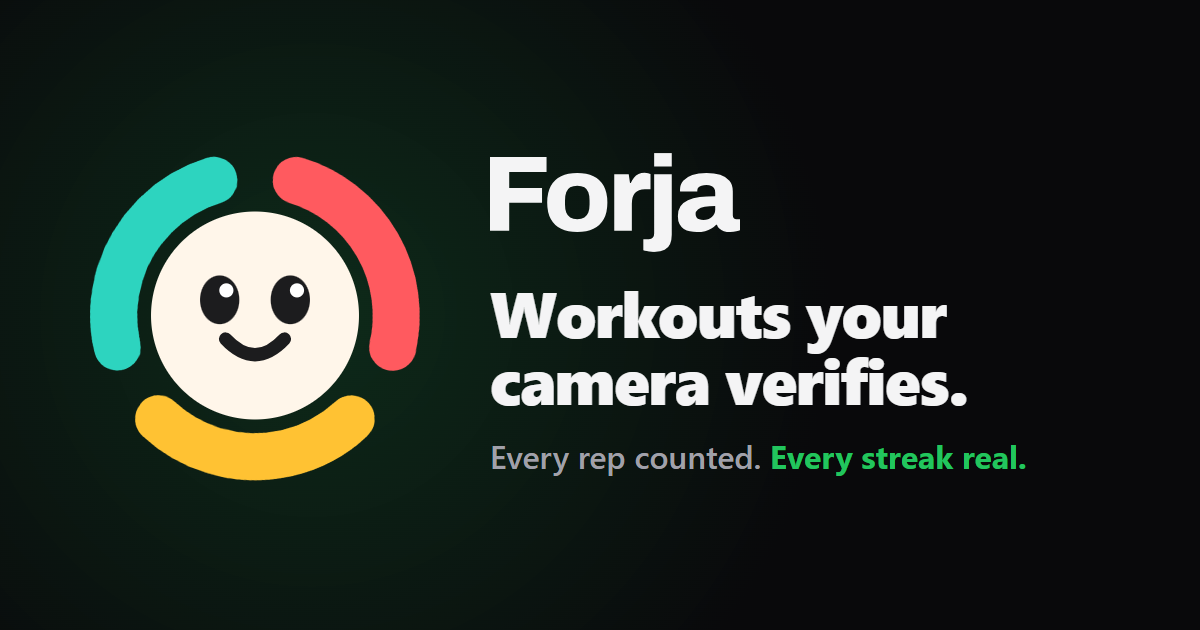
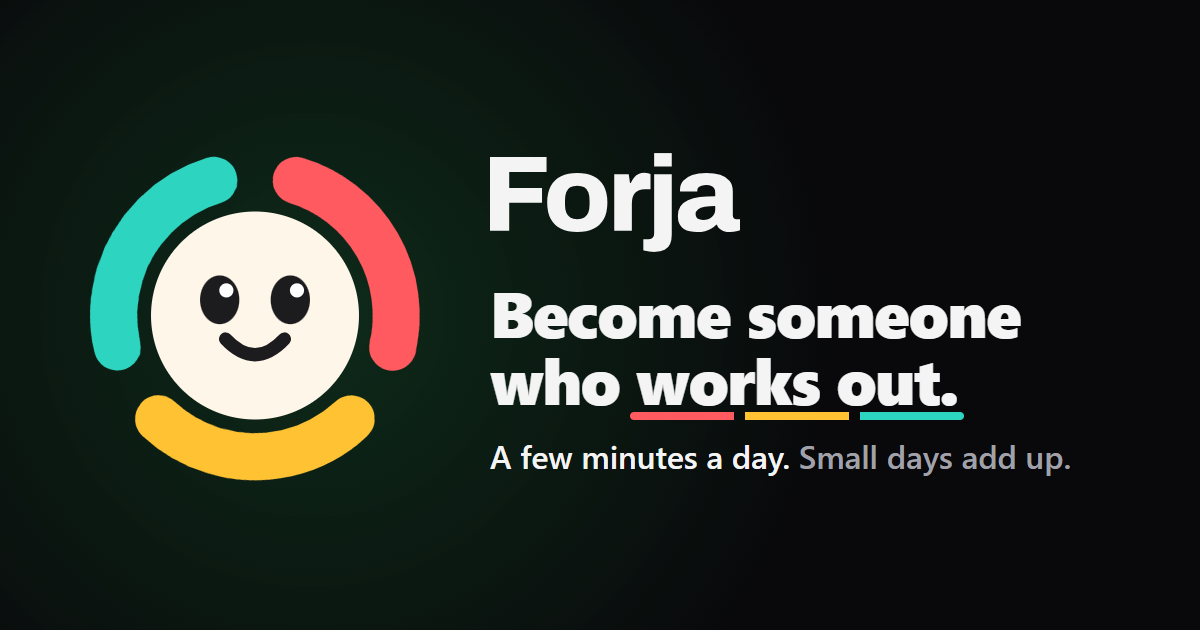
Front page: lead with the outcome, new share image, bolder beta buttons
- Hero "Become someone who works out." plus a "Sound familiar?" pain
  section, "Small days add up." and the camera section moved below
  (English and Spanish)
- Share image (og-image.png) matches the new hero; ?v=2 so apps that
  cached the old preview fetch it again
- "Open the beta" is a solid green pill; "Or start training in the beta
  now" is a full-width button under the waitlist

Changed region(s): [[0.4008, 0.4524, 0.8942, 0.754]]

diff --git a/landing.html b/landing.html
@@ -3,7 +3,7 @@
 <head>
   <meta charset="UTF-8">
   <meta name="viewport" content="width=device-width, initial-scale=1, viewport-fit=cover">
-  <title>Forja: the workout app you can't cheat</title>
+  <title>Forja: become someone who works out</title>
   <!-- getforja.app's front page. The app itself is index.html. People who
        already use the app never stay here: an installed Home Screen app, a
        signed-in or guest phone, an invite link (?i=) or a login/reset link
@@ -20,16 +20,16 @@
       if (toApp) l.replace("index.html" + l.search + l.hash);
     })();
   </script>
-  <meta name="description" content="Your camera counts every push-up, squat and plank. No typing in numbers. Join the waitlist: Founding Members get Forja Pro free for a year.">
+  <meta name="description" content="Stop starting over. A few minutes a day at home, your phone counts every rep, and your streak shows how far you've come. Join the waitlist: Founding Members get Forja Pro free for a year.">
   <meta property="og:type" content="website">
   <meta property="og:site_name" content="Forja">
   <meta property="og:url" content="https://getforja.app/">
-  <meta property="og:title" content="Forja: the workout app you can't cheat">
-  <meta property="og:description" content="Your camera counts every rep. Join the waitlist and become a Founding Member.">
-  <meta property="og:image" content="https://getforja.app/og-image.png">
+  <meta property="og:title" content="Forja: become someone who works out">
+  <meta property="og:description" content="Stop starting over. A few minutes a day at home, and your phone counts every rep.">
+  <meta property="og:image" content="https://getforja.app/og-image.png?v=2">
   <meta property="og:image:width" content="1200">
   <meta property="og:image:height" content="630">
-  <meta property="og:image:alt" content="The Forja pet inside its ring: workouts your camera verifies">
+  <meta property="og:image:alt" content="The Forja pet inside its ring: become someone who works out">
   <meta name="twitter:card" content="summary_large_image">
   <link rel="manifest" href="manifest.json">
   <meta name="theme-color" content="#0b0c0e">
@@ -90,9 +90,10 @@
   .lockup svg.word { height: 22px; width: auto; }
   .nav-link {
     display: inline-flex; align-items: center; min-height: 44px; padding: 0 16px;
-    border: 1px solid var(--line-strong); border-radius: 999px;
-    font-size: 15px; font-weight: 600; text-decoration: none; color: var(--text);
+    border-radius: 999px; background: var(--accent);
+    font-size: 15px; font-weight: 700; text-decoration: none; color: #04130a;
   }
+  .nav-link:active { background: var(--accent-press); }
 
   /* ---------- hero ---------- */
   .hero { display: grid; gap: 40px; padding-block: 28px 56px; align-items: center; }
@@ -106,8 +107,8 @@
     margin: 0; font-family: var(--font-display); font-weight: 900;
     font-size: clamp(44px, 10.5vw, 84px); line-height: 0.95; letter-spacing: -0.035em; text-wrap: balance;
   }
-  h1 .cant { position: relative; white-space: nowrap; }
-  h1 .cant::after {
+  h1 .hl { position: relative; white-space: nowrap; }
+  h1 .hl::after {
     content: ""; position: absolute; left: -2%; right: -2%; bottom: 0.06em; height: 0.12em; border-radius: 99px;
     background: linear-gradient(90deg, var(--red) 0 31%, transparent 31% 34.5%, var(--yellow) 34.5% 65.5%, transparent 65.5% 69%, var(--teal) 69%);
   }
@@ -132,10 +133,12 @@
   .founder-line { margin: 4px 0 0; font-size: 15px; color: var(--text-2); }
   .founder-line b { color: var(--text); }
   .beta-link {
-    display: inline-flex; align-items: center; gap: 6px; min-height: 44px; margin-top: 4px;
-    font-size: 15px; font-weight: 600; color: var(--accent); text-decoration: none;
+    display: flex; align-items: center; justify-content: center; gap: 8px; min-height: 52px; margin-top: 14px;
+    border: 1.5px solid var(--accent); border-radius: 14px; background: var(--accent-tint);
+    font-size: 17px; font-weight: 700; color: var(--accent); text-decoration: none;
   }
-  .beta-link svg { width: 16px; height: 16px; }
+  .beta-link:active { background: #22c55e33; }
+  .beta-link svg { width: 18px; height: 18px; }
 
   /* after joining */
   .joined { display: grid; gap: 14px; padding: 20px; border-radius: 20px; background: var(--panel); border: 1px solid var(--line); }
@@ -300,8 +303,8 @@
   <header class="hero" id="top">
     <div>
       <p class="eyebrow"><i></i>Beta open now · App Store next</p>
-      <h1>The workout app you <span class="cant">can't cheat.</span></h1>
-      <p class="lede">Your camera counts every push-up, squat and plank. You can't type in a number. When a friend sees <b>40 push-ups</b>, you did 40.</p>
+      <h1>Become someone who <span class="hl">works out.</span></h1>
+      <p class="lede">No gym, and no 45-minute plan you'll drop by Thursday. Just <b>a few minutes a day</b> at home. Your phone counts every rep, your streak grows, and a month from now you've kept 30 promises to yourself.</p>
 
       <div class="join" id="join">
         <form id="join-form" novalidate>
@@ -339,25 +342,25 @@
     </div>
   </header>
 
-  <!-- ---------- no honor system ---------- -->
-  <section aria-labelledby="proof-title">
-    <p class="kicker">No honor system</p>
-    <h2 class="big" id="proof-title">Every rep is counted. Twice.</h2>
+  <!-- ---------- sound familiar ---------- -->
+  <section aria-labelledby="pain-title">
+    <p class="kicker">Sound familiar?</p>
+    <h2 class="big" id="pain-title">You're not lazy. Your plan is too big.</h2>
     <div class="proof">
       <article>
-        <div class="icon" style="background:#ff5a5f22;color:var(--red)"><svg viewBox="0 0 24 24" fill="none" stroke="currentColor" stroke-width="2" stroke-linecap="round" stroke-linejoin="round" aria-hidden="true"><path d="M3 8.5A2.5 2.5 0 0 1 5.5 6h2l1.5-2h6l1.5 2h2A2.5 2.5 0 0 1 21 8.5v9a2.5 2.5 0 0 1-2.5 2.5h-13A2.5 2.5 0 0 1 3 17.5z"/><circle cx="12" cy="13" r="3.5"/></svg></div>
-        <h3>Counted on camera</h3>
-        <p>Set your phone on the floor and train. Forja watches your form and only counts full reps.</p>
+        <div class="icon" style="background:#ff5a5f22;color:var(--red)"><svg viewBox="0 0 24 24" fill="none" stroke="currentColor" stroke-width="2" stroke-linecap="round" stroke-linejoin="round" aria-hidden="true"><path d="M20 11a8 8 0 0 0-14.3-4.9L4 8"/><path d="M4 3.5V8h4.5"/><path d="M4 13a8 8 0 0 0 14.3 4.9L20 16"/><path d="M20 20.5V16h-4.5"/></svg></div>
+        <h3>Starting over every Monday</h3>
+        <p>A new plan, four good days, then life gets busy. Every restart makes the next one harder to believe.</p>
       </article>
       <article>
-        <div class="icon" style="background:#ffc23322;color:var(--yellow)"><svg viewBox="0 0 24 24" fill="none" stroke="currentColor" stroke-width="2" stroke-linecap="round" stroke-linejoin="round" aria-hidden="true"><path d="M12 3l7 3v5.5c0 4.4-3 8.2-7 9.5-4-1.3-7-5.1-7-9.5V6z"/><path d="M8.5 12l2.5 2.5 4.5-5"/></svg></div>
-        <h3>Checked again on our server</h3>
-        <p>Your phone counts, then our server replays the movement and counts again before anything is saved.</p>
+        <div class="icon" style="background:#ffc23322;color:var(--yellow)"><svg viewBox="0 0 24 24" fill="none" stroke="currentColor" stroke-width="2" stroke-linecap="round" stroke-linejoin="round" aria-hidden="true"><rect x="3" y="5.5" width="18" height="13" rx="2.5"/><path d="M3 10h18"/><path d="M7 15h4"/></svg></div>
+        <h3>The gym you pay for</h3>
+        <p>The membership charges you every month, and the guilt shows up with it.</p>
       </article>
       <article>
-        <div class="icon" style="background:#2dd4bf22;color:var(--teal)"><svg viewBox="0 0 24 24" fill="none" stroke="currentColor" stroke-width="2" stroke-linecap="round" stroke-linejoin="round" aria-hidden="true"><rect x="5" y="10.5" width="14" height="10" rx="2.5"/><path d="M8 10.5V8a4 4 0 0 1 8 0v2.5"/></svg></div>
-        <h3>Your video stays on your phone</h3>
-        <p>Nothing is recorded or uploaded. Only a few body points are checked, never an image.</p>
+        <div class="icon" style="background:#2dd4bf22;color:var(--teal)"><svg viewBox="0 0 24 24" fill="none" stroke="currentColor" stroke-width="2" stroke-linecap="round" stroke-linejoin="round" aria-hidden="true"><path d="M3 3l18 18"/><path d="M10.6 6.1A9.7 9.7 0 0 1 12 6c5 0 8.5 4.2 9.5 6-.4.8-1.3 2-2.5 3.2"/><path d="M6.6 7.6C4.6 8.9 3.1 10.8 2.5 12c1 1.8 4.5 6 9.5 6 1.4 0 2.7-.3 3.9-.9"/><path d="M9.9 10a3 3 0 0 0 4.1 4.1"/></svg></div>
+        <h3>Nobody notices</h3>
+        <p>Train or skip, the day looks the same. So skipping keeps winning.</p>
       </article>
     </div>
   </section>
@@ -366,12 +369,12 @@
   <section aria-labelledby="ring-title">
     <div class="split">
       <div>
-        <p class="kicker">One ring a day</p>
-        <h2 class="big" id="ring-title">Close your ring. Keep the streak.</h2>
+        <p class="kicker">A few minutes a day</p>
+        <h2 class="big" id="ring-title">Small days add up.</h2>
         <ul class="points">
-          <li><span class="dot" style="background:var(--red)"></span><span><b>Three moves a day.</b> Push-ups, a plank and squats, sized to you.</span></li>
-          <li><span class="dot" style="background:var(--yellow)"></span><span><b>Your plan grows with you.</b> Targets step up as you get stronger.</span></li>
-          <li><span class="dot" style="background:var(--teal)"></span><span><b>Two rest days a week.</b> One bad day doesn't end your streak.</span></li>
+          <li><span class="dot" style="background:var(--red)"></span><span><b>Start small.</b> Push-ups, a plank and squats, sized to where you are today.</span></li>
+          <li><span class="dot" style="background:var(--yellow)"></span><span><b>Watch yourself get stronger.</b> Your targets step up as you do, so the numbers keep climbing.</span></li>
+          <li><span class="dot" style="background:var(--teal)"></span><span><b>Miss a day? You're fine.</b> Two rest days a week, so one bad day doesn't undo your progress.</span></li>
         </ul>
       </div>
       <div class="ring-card">
@@ -399,13 +402,36 @@
     </div>
   </section>
 
+  <!-- ---------- your phone counts ---------- -->
+  <section aria-labelledby="proof-title">
+    <p class="kicker">Nothing to log</p>
+    <h2 class="big" id="proof-title">Just move. Forja keeps count.</h2>
+    <div class="proof">
+      <article>
+        <div class="icon" style="background:#ff5a5f22;color:var(--red)"><svg viewBox="0 0 24 24" fill="none" stroke="currentColor" stroke-width="2" stroke-linecap="round" stroke-linejoin="round" aria-hidden="true"><path d="M3 8.5A2.5 2.5 0 0 1 5.5 6h2l1.5-2h6l1.5 2h2A2.5 2.5 0 0 1 21 8.5v9a2.5 2.5 0 0 1-2.5 2.5h-13A2.5 2.5 0 0 1 3 17.5z"/><circle cx="12" cy="13" r="3.5"/></svg></div>
+        <h3>Prop up your phone</h3>
+        <p>Set it on the floor and train. Forja counts every full rep for you, so there's nothing to type.</p>
+      </article>
+      <article>
+        <div class="icon" style="background:#ffc23322;color:var(--yellow)"><svg viewBox="0 0 24 24" fill="none" stroke="currentColor" stroke-width="2" stroke-linecap="round" stroke-linejoin="round" aria-hidden="true"><path d="M12 3l7 3v5.5c0 4.4-3 8.2-7 9.5-4-1.3-7-5.1-7-9.5V6z"/><path d="M8.5 12l2.5 2.5 4.5-5"/></svg></div>
+        <h3>Progress you can trust</h3>
+        <p>Every rep is checked again on our server, so each number in your streak is one you really did.</p>
+      </article>
+      <article>
+        <div class="icon" style="background:#2dd4bf22;color:var(--teal)"><svg viewBox="0 0 24 24" fill="none" stroke="currentColor" stroke-width="2" stroke-linecap="round" stroke-linejoin="round" aria-hidden="true"><rect x="5" y="10.5" width="14" height="10" rx="2.5"/><path d="M8 10.5V8a4 4 0 0 1 8 0v2.5"/></svg></div>
+        <h3>Your video stays on your phone</h3>
+        <p>Nothing is recorded or uploaded. Only a few body points are checked, never an image.</p>
+      </article>
+    </div>
+  </section>
+
   <!-- ---------- friends (example people, not real accounts) ---------- -->
   <section aria-labelledby="friends-title">
     <div class="split">
       <div>
         <p class="kicker">Better with friends</p>
-        <h2 class="big" id="friends-title">Real numbers. Real bragging rights.</h2>
-        <p class="sub">See your friends' workouts in the Feed, like them, nudge anyone who hasn't trained yet today, and race everyone in a weekly league.</p>
+        <h2 class="big" id="friends-title">Friends who notice.</h2>
+        <p class="sub">Your friends see your workouts in the Feed and cheer you on. Nudge anyone who hasn't trained yet today, and race everyone in a weekly league.</p>
       </div>
       <div class="social" aria-hidden="true">
         <div class="feed-card">
@@ -455,6 +481,8 @@
     <p class="kicker">Questions</p>
     <h2 class="big" id="faq-title">Good to know</h2>
     <div class="faq">
+      <details><summary>I've quit every workout plan. Why is this different?<svg viewBox="0 0 24 24" fill="none" stroke="currentColor" stroke-width="2.4" stroke-linecap="round" aria-hidden="true"><path d="M12 5v14M5 12h14"/></svg></summary>
+        <p>Most plans ask for an hour. Forja asks for a few minutes and grows with you from there. Your friends see when you show up, and two rest days a week mean one bad day doesn't undo your progress.</p></details>
       <details><summary>Can I use Forja now?<svg viewBox="0 0 24 24" fill="none" stroke="currentColor" stroke-width="2.4" stroke-linecap="round" aria-hidden="true"><path d="M12 5v14M5 12h14"/></svg></summary>
         <p>Yes. The beta runs in your phone's browser today. On iPhone, add it to your Home Screen for reminders. The App Store app comes next, and your streak carries over.</p></details>
       <details><summary>Is it free?<svg viewBox="0 0 24 24" fill="none" stroke="currentColor" stroke-width="2.4" stroke-linecap="round" aria-hidden="true"><path d="M12 5v14M5 12h14"/></svg></summary>
@@ -479,7 +507,7 @@
 <!-- English or Spanish, like the app (i18n.js); this page's Spanish is its
      own small file. -->
 <script src="i18n.js?v=2"></script>
-<script src="i18n-landing-es.js?v=1"></script>
+<script src="i18n-landing-es.js?v=2"></script>
 <script>
   // The example week's letters (a lookup can't tell Tuesday's T from Thursday's).
   if (ForjaI18n.lang === "es") {
@@ -585,7 +613,7 @@
     });
     const share = document.getElementById("share");
     if (share) share.addEventListener("click", () => {
-      navigator.share({ title: "Forja", text: tr("The workout app you can't cheat. Join the waitlist with me:"), url: link }).catch(() => {});
+      navigator.share({ title: "Forja", text: tr("A few minutes a day to become someone who works out. Join the waitlist with me:"), url: link }).catch(() => {});
     });
   }
 

diff --git a/i18n-landing-es.js b/i18n-landing-es.js
@@ -1,19 +1,19 @@
 // The front page's Spanish (landing.html), read by i18n.js like the app's
 // (i18n-es.js). Its own small file, so visitors don't load the whole app's.
 // Keys are the page's English exactly: each piece of text between tags is
-// its own key ("The workout app you" + "can't cheat.").
+// its own key ("Become someone who" + "works out.").
 window.FORJA_ES = Object.assign(window.FORJA_ES || {}, {
-  "Forja: the workout app you can't cheat": "Forja: la app de ejercicio que no puedes engañar",
+  "Forja: become someone who works out": "Forja: conviértete en alguien que hace ejercicio",
   "Forja home": "Inicio de Forja",
   "Main": "Principal",
   "Footer": "Pie de página",
   "Open the beta": "Abrir la beta",
   "Beta open now · App Store next": "Beta abierta · Pronto en la App Store",
-  "The workout app you": "La app de ejercicio que no puedes",
-  "can't cheat.": "engañar.",
-  "Your camera counts every push-up, squat and plank. You can't type in a number. When a friend sees": "Tu cámara cuenta cada flexión, sentadilla y plancha. No puedes escribir un número. Cuando un amigo ve",
-  "40 push-ups": "40 flexiones",
-  ", you did 40.": ", hiciste 40.",
+  "Become someone who": "Conviértete en alguien que",
+  "works out.": "hace ejercicio.",
+  "No gym, and no 45-minute plan you'll drop by Thursday. Just": "Sin gimnasio, y sin un plan de 45 minutos que dejarás el jueves. Solo",
+  "a few minutes a day": "unos minutos al día",
+  "at home. Your phone counts every rep, your streak grows, and a month from now you've kept 30 promises to yourself.": "en casa. Tu teléfono cuenta cada repetición, tu racha crece y en un mes habrás cumplido 30 promesas contigo mismo.",
   "Email address": "Correo electrónico",
   "you@email.com": "tu@correo.com",
   "Join the waitlist": "Unirme a la lista de espera",
@@ -28,30 +28,38 @@ window.FORJA_ES = Object.assign(window.FORJA_ES || {}, {
   "Full rep": "Repetición completa",
   "Going down": "Bajando",
   "Ring slice closed": "Parte del anillo cerrada",
-  "No honor system": "Sin trampas",
-  "Every rep is counted. Twice.": "Cada repetición se cuenta. Dos veces.",
-  "Counted on camera": "Contada por la cámara",
-  "Set your phone on the floor and train. Forja watches your form and only counts full reps.": "Pon tu teléfono en el piso y entrena. Forja revisa tu técnica y solo cuenta repeticiones completas.",
-  "Checked again on our server": "Revisada otra vez en nuestro servidor",
-  "Your phone counts, then our server replays the movement and counts again before anything is saved.": "Tu teléfono cuenta, y luego nuestro servidor repite el movimiento y vuelve a contar antes de guardar nada.",
+  "Sound familiar?": "¿Te suena?",
+  "You're not lazy. Your plan is too big.": "No eres flojo. Tu plan es demasiado grande.",
+  "Starting over every Monday": "Empezar de nuevo cada lunes",
+  "A new plan, four good days, then life gets busy. Every restart makes the next one harder to believe.": "Un plan nuevo, cuatro buenos días y luego la vida se complica. Cada vez que empiezas de nuevo, te cuesta más creerte.",
+  "The gym you pay for": "El gimnasio que pagas",
+  "The membership charges you every month, and the guilt shows up with it.": "La membresía te cobra cada mes, y la culpa llega con ella.",
+  "Nobody notices": "Nadie lo nota",
+  "Train or skip, the day looks the same. So skipping keeps winning.": "Entrenes o no, el día se ve igual. Así que saltártelo siempre gana.",
+  "Nothing to log": "Nada que anotar",
+  "Just move. Forja keeps count.": "Tú muévete. Forja lleva la cuenta.",
+  "Prop up your phone": "Apoya tu teléfono",
+  "Set it on the floor and train. Forja counts every full rep for you, so there's nothing to type.": "Ponlo en el piso y entrena. Forja cuenta cada repetición completa por ti, así que no hay nada que escribir.",
+  "Progress you can trust": "Progreso en el que puedes confiar",
+  "Every rep is checked again on our server, so each number in your streak is one you really did.": "Cada repetición se revisa otra vez en nuestro servidor, así que cada número de tu racha es uno que de verdad hiciste.",
   "Your video stays on your phone": "Tu video se queda en tu teléfono",
   "Nothing is recorded or uploaded. Only a few body points are checked, never an image.": "No se graba ni se sube nada. Solo se revisan unos cuantos puntos del cuerpo, nunca una imagen.",
-  "One ring a day": "Un anillo al día",
-  "Close your ring. Keep the streak.": "Cierra tu anillo. Mantén la racha.",
-  "Three moves a day.": "Tres ejercicios al día.",
-  "Push-ups, a plank and squats, sized to you.": "Flexiones, una plancha y sentadillas, a tu medida.",
-  "Your plan grows with you.": "Tu plan crece contigo.",
-  "Targets step up as you get stronger.": "Las metas suben a medida que te haces más fuerte.",
-  "Two rest days a week.": "Dos días de descanso a la semana.",
-  "One bad day doesn't end your streak.": "Un mal día no acaba con tu racha.",
+  "A few minutes a day": "Unos minutos al día",
+  "Small days add up.": "Los días pequeños suman.",
+  "Start small.": "Empieza poco a poco.",
+  "Push-ups, a plank and squats, sized to where you are today.": "Flexiones, una plancha y sentadillas, a tu medida de hoy.",
+  "Watch yourself get stronger.": "Mira cómo te haces más fuerte.",
+  "Your targets step up as you do, so the numbers keep climbing.": "Tus metas suben contigo, así que los números no dejan de crecer.",
+  "Miss a day? You're fine.": "¿Fallaste un día? No pasa nada.",
+  "Two rest days a week, so one bad day doesn't undo your progress.": "Dos días de descanso a la semana, así que un mal día no borra tu progreso.",
   "push-ups": "flexiones",
   "plank": "plancha",
   "squats": "sentadillas",
   "An example week: 5 training days, 1 rest day, today closed": "Una semana de ejemplo: 5 días de entrenamiento, 1 de descanso, hoy cerrado",
   "12-day streak, with one rest day": "Racha de 12 días, con un día de descanso",
   "Better with friends": "Mejor con amigos",
-  "Real numbers. Real bragging rights.": "Números reales. Presumir con razón.",
-  "See your friends' workouts in the Feed, like them, nudge anyone who hasn't trained yet today, and race everyone in a weekly league.": "Mira los entrenamientos de tus amigos, dales me gusta, dale un empujón a quien todavía no haya entrenado hoy y compite con todos en una liga semanal.",
+  "Friends who notice.": "Amigos que lo notan.",
+  "Your friends see your workouts in the Feed and cheer you on. Nudge anyone who hasn't trained yet today, and race everyone in a weekly league.": "Tus amigos ven tus entrenamientos y te animan. Dale un empujón a quien todavía no haya entrenado hoy y compite con todos en una liga semanal.",
   "6:42 PM": "6:42 p. m.",
   "Full day": "Día completo",
   "You and jordan liked this": "Me gusta: Tú y jordan",
@@ -71,6 +79,8 @@ window.FORJA_ES = Object.assign(window.FORJA_ES || {}, {
   "Founder badge on your profile": "Insignia de fundador en tu perfil",
   "Questions": "Preguntas",
   "Good to know": "Bueno saber",
+  "I've quit every workout plan. Why is this different?": "He dejado todos los planes de ejercicio. ¿Por qué este es distinto?",
+  "Most plans ask for an hour. Forja asks for a few minutes and grows with you from there. Your friends see when you show up, and two rest days a week mean one bad day doesn't undo your progress.": "La mayoría de los planes te piden una hora. Forja te pide unos minutos y crece contigo desde ahí. Tus amigos ven cuando cumples, y con dos días de descanso a la semana un mal día no borra tu progreso.",
   "Can I use Forja now?": "¿Puedo usar Forja ya?",
   "Yes. The beta runs in your phone's browser today. On iPhone, add it to your Home Screen for reminders. The App Store app comes next, and your streak carries over.": "Sí. La beta funciona hoy en el navegador de tu teléfono. En iPhone, agrégala a tu pantalla de inicio para recibir recordatorios. Después llega la app de la App Store, y tu racha se queda contigo.",
   "Is it free?": "¿Es gratis?",
@@ -102,7 +112,7 @@ window.FORJA_ES = Object.assign(window.FORJA_ES || {}, {
   "Copied": "Copiado",
   "Selected": "Seleccionado",
   "Start training in the beta now": "Empieza a entrenar en la beta ya",
-  "The workout app you can't cheat. Join the waitlist with me:": "La app de ejercicio que no puedes engañar. Únete a la lista de espera conmigo:",
+  "A few minutes a day to become someone who works out. Join the waitlist with me:": "Unos minutos al día para convertirte en alguien que hace ejercicio. Únete a la lista de espera conmigo:",
 });
 
 // The page's own words, now that both files are here.

diff --git a/install.html b/install.html
@@ -10,7 +10,7 @@
   <meta property="og:url" content="https://getforja.app/install">
   <meta property="og:title" content="Forja: add it to your Home Screen">
   <meta property="og:description" content="How to put Forja on your iPhone or Android Home Screen, in 20 seconds.">
-  <meta property="og:image" content="https://getforja.app/og-image.png">
+  <meta property="og:image" content="https://getforja.app/og-image.png?v=2">
   <meta property="og:image:width" content="1200">
   <meta property="og:image:height" content="630">
   <meta name="twitter:card" content="summary_large_image">
